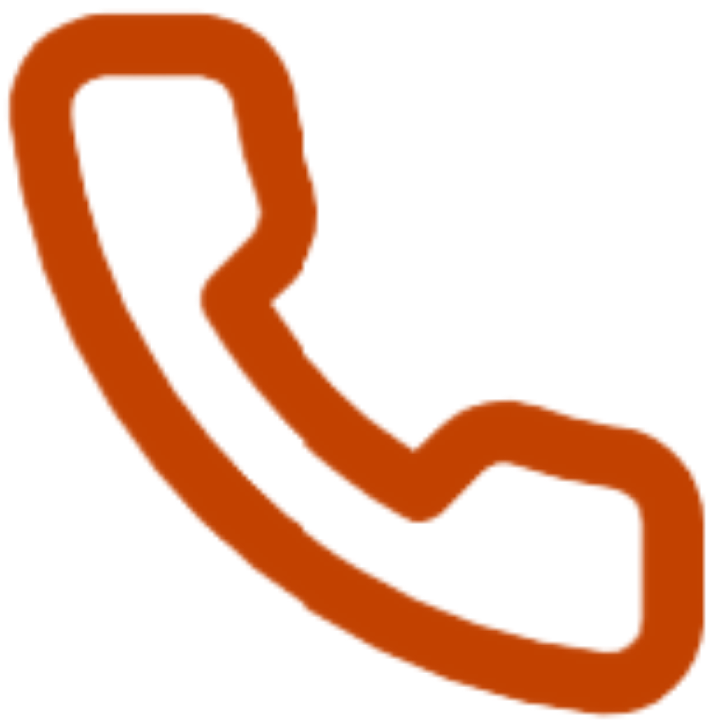
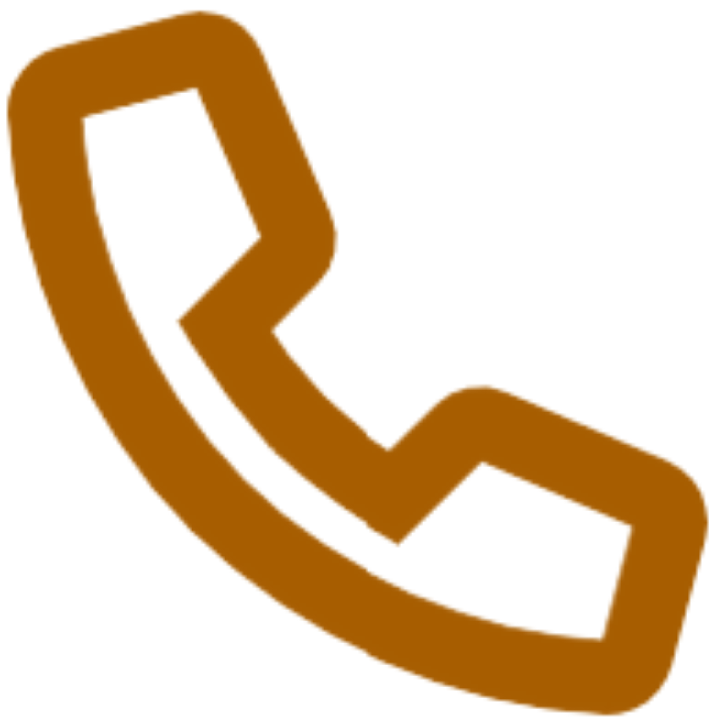
[fix] css, 아이콘 색

diff --git a/src/main/webapp/resources/css/common.css b/src/main/webapp/resources/css/common.css
@@ -98,12 +98,12 @@ p {
 }
 
 .btn-brown {
-	background-color: #a48073 !important;
+	background-color: #a75d00 !important;
    	color: white !important; 
 	transition: background-color !important;
 	
  	&:hover {
-   		background-color: #b38f83 !important;
+   		background-color: #c07a22 !important;
 	} 
 }
 
@@ -114,12 +114,13 @@ p {
 	border: 1px solid #ccc7c7b0 !important;
 	
 	&:hover {
-   		background-color: #836a61 !important; 
+   		background-color: #d19141 !important; 
+   		color: white !important; 
 	} 
 }
 
 .btn-secondary-brown {
-	border: 1px solid #a48073 !important; 
+	border: 1px solid #a75d00 !important; 
 	color: #a48073 !important; 
 	background-color: transparent !important;
 }
@@ -168,13 +169,13 @@ p {
 }
 /* 헤더 컴포넌트 */
 .gnb-title {
-	color: #a48073 !important;
+	color: #a75d00 !important;
 	font-weight: bold !important;
 	transition: color 0.5s !important;
 	font-size: 1.5rem;
 	
 	&:hover {
-		color: #a48073 !important; 
+		color: #c07a22 !important; 
 	}
 }
 
@@ -183,7 +184,7 @@ p {
 	font-weight: bolder;
 	
 	&:hover {
-		color: #a48073 !important;
+		color: #c07a22 !important;
 	}
 }
 

diff --git a/src/main/java/edu/example/bughunters/controller/CommunityController.java b/src/main/java/edu/example/bughunters/controller/CommunityController.java
@@ -51,6 +51,8 @@ public class CommunityController {
         List<CommunityDTO> items = communityService.getList(filters, page, size);
         int total = communityService.countList(filters);
         int totalPages = (int)Math.ceil((double) total / Math.max(1, size));
+        
+        System.out.println("categor는 " + category);
 
         model.addAttribute("list", items);
         model.addAttribute("totalPages", totalPages);
